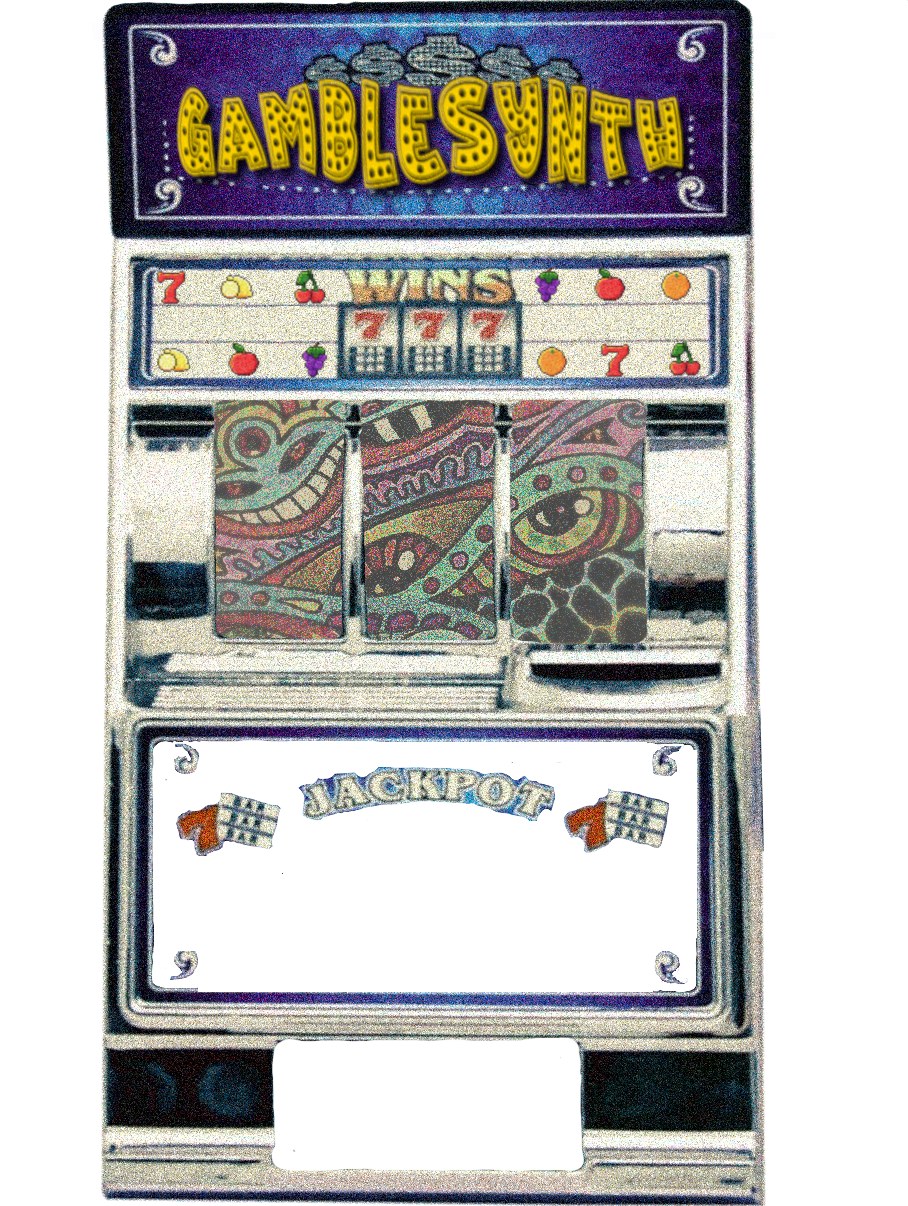
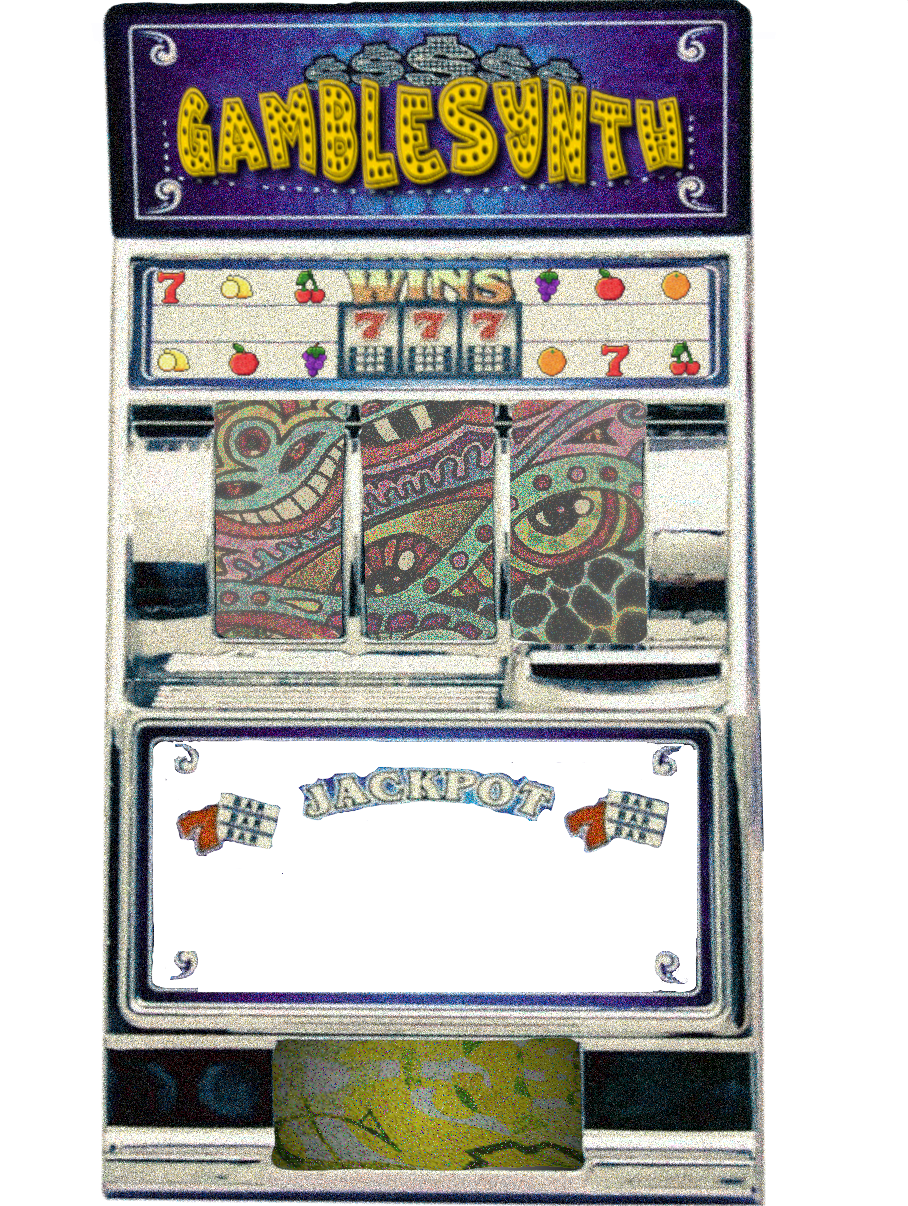
Coin tray on the new backing, and a nudge you can hear
New cabinet artwork: the tray is a gold plate rather than a hole, so the
controls now sit on something. Same canvas size, so every measured coordinate
still holds.

The tray holds NUDGE and the balance on one line with SHOP SOON beneath, at the
same button height as the SAVE/LOAD/CHAOS row so the text matches the rest of
the machine. The balance reads as a number and a gold G, drawn as one centred
line so the pair stays put whatever the count is.

Nudge was too polite to notice: a press moved the filter 0.139 octaves on
average, which is a change you have to go looking for. Every spread roughly
doubled and the default amount went from half to full, so a press now averages
0.602 octaves and six presses average 1.09. Still bounded - the check that a
nudge stays within about an octave and a half holds, and every discrete choice
is still untouched, so it remains the same sound rather than a new roll.

Changed region(s): [[0.2775, 0.859, 0.6476, 0.9818]]

diff --git a/src/Randomizer.h b/src/Randomizer.h
@@ -53,7 +53,7 @@ public:
     // changing any of them would be a new roll rather than a variation.
     //
     // Amount is 0..1; at 1 the drift is obvious but the sound is still related.
-    void nudge (Patch& p, float amount = 0.5f)
+    void nudge (Patch& p, float amount = 1.0f)
     {
         const float a = juce::jlimit (0.0f, 1.0f, amount);
 
@@ -69,49 +69,49 @@ public:
             return juce::jlimit (lo, hi, v + f (-spread, spread) * a);
         };
 
-        p.cutoff    = juce::jlimit (30.0f, 18000.0f, scale (p.cutoff, 0.5f));
-        p.resonance = shift (p.resonance, 0.12f, 0.0f, 0.95f);
-        p.filterEnvAmt = shift (p.filterEnvAmt, 0.15f, -1.0f, 1.0f);
+        p.cutoff    = juce::jlimit (30.0f, 18000.0f, scale (p.cutoff, 1.1f));
+        p.resonance = shift (p.resonance, 0.22f, 0.0f, 0.95f);
+        p.filterEnvAmt = shift (p.filterEnvAmt, 0.3f, -1.0f, 1.0f);
         p.keytrack  = shift (p.keytrack, 0.1f, 0.0f, 1.0f);
 
-        p.ampA = juce::jlimit (0.001f, 4.0f, scale (p.ampA, 0.45f));
-        p.ampD = juce::jlimit (0.005f, 6.0f, scale (p.ampD, 0.45f));
-        p.ampS = shift (p.ampS, 0.12f, 0.0f, 1.0f);
-        p.ampR = juce::jlimit (0.01f, 8.0f, scale (p.ampR, 0.45f));
+        p.ampA = juce::jlimit (0.001f, 4.0f, scale (p.ampA, 0.9f));
+        p.ampD = juce::jlimit (0.005f, 6.0f, scale (p.ampD, 0.9f));
+        p.ampS = shift (p.ampS, 0.2f, 0.0f, 1.0f);
+        p.ampR = juce::jlimit (0.01f, 8.0f, scale (p.ampR, 0.9f));
 
-        p.modA = juce::jlimit (0.001f, 4.0f, scale (p.modA, 0.45f));
-        p.modD = juce::jlimit (0.005f, 6.0f, scale (p.modD, 0.45f));
-        p.modS = shift (p.modS, 0.12f, 0.0f, 1.0f);
-        p.modR = juce::jlimit (0.01f, 8.0f, scale (p.modR, 0.45f));
+        p.modA = juce::jlimit (0.001f, 4.0f, scale (p.modA, 0.9f));
+        p.modD = juce::jlimit (0.005f, 6.0f, scale (p.modD, 0.9f));
+        p.modS = shift (p.modS, 0.2f, 0.0f, 1.0f);
+        p.modR = juce::jlimit (0.01f, 8.0f, scale (p.modR, 0.9f));
 
         for (auto& o : p.osc)
         {
-            o.level = shift (o.level, 0.12f, 0.0f, 1.0f);
-            o.fine  = shift (o.fine, 6.0f, -50.0f, 50.0f);
+            o.level = shift (o.level, 0.22f, 0.0f, 1.0f);
+            o.fine  = shift (o.fine, 14.0f, -50.0f, 50.0f);
             o.decay = juce::jlimit (0.0f, 4.0f, o.decay * std::exp2 (f (-0.4f, 0.4f) * a));
         }
 
-        p.unisonDetune = juce::jlimit (0.0f, 50.0f, scale (p.unisonDetune, 0.4f));
+        p.unisonDetune = juce::jlimit (0.0f, 50.0f, scale (p.unisonDetune, 0.8f));
         p.stereoWidth  = shift (p.stereoWidth, 0.15f, 0.0f, 1.0f);
-        p.fmAmount     = juce::jlimit (0.0f, 1.0f, scale (p.fmAmount, 0.35f));
+        p.fmAmount     = juce::jlimit (0.0f, 1.0f, scale (p.fmAmount, 0.7f));
         p.subLevel     = shift (p.subLevel, 0.1f, 0.0f, 1.0f);
         p.noiseLevel   = shift (p.noiseLevel, 0.08f, 0.0f, 1.0f);
-        p.wtPos        = shift (p.wtPos, 0.18f, 0.0f, 1.0f);
+        p.wtPos        = shift (p.wtPos, 0.35f, 0.0f, 1.0f);
 
         // Modulators: rate and depth drift, shape and destination do not.
         for (int k = 0; k < Patch::NumMods; ++k)
         {
             auto& m = p.mod[k];
             if (m.dest == ModNone) continue;
-            m.rate  = juce::jlimit (0.01f, 20.0f, scale (m.rate, 0.5f));
-            m.depth = shift (m.depth, 0.15f, 0.0f, 1.0f);
+            m.rate  = juce::jlimit (0.01f, 20.0f, scale (m.rate, 1.0f));
+            m.depth = shift (m.depth, 0.3f, 0.0f, 1.0f);
         }
-        p.envAmount = shift (p.envAmount, 0.15f, -1.0f, 1.0f);
+        p.envAmount = shift (p.envAmount, 0.3f, -1.0f, 1.0f);
 
         // Effects move least. A nudge that swings the reverb from dry to
         // cathedral does not read as the same sound.
-        p.drive     = shift (p.drive, 0.12f, 0.0f, 1.0f);
-        p.foldAmount= shift (p.foldAmount, 0.1f, 0.0f, 1.0f);
+        p.drive     = shift (p.drive, 0.2f, 0.0f, 1.0f);
+        p.foldAmount= shift (p.foldAmount, 0.18f, 0.0f, 1.0f);
         p.chorusMix = shift (p.chorusMix, 0.08f, 0.0f, 1.0f);
         p.phaserMix = shift (p.phaserMix, 0.08f, 0.0f, 1.0f);
         p.flangerMix= shift (p.flangerMix, 0.08f, 0.0f, 1.0f);

diff --git a/src/PluginEditor.h b/src/PluginEditor.h
@@ -52,6 +52,53 @@ private:
     GambleSynthProcessor& proc;
 };
 
+// The nudge balance: a number and a gold G, drawn together so the G stays the
+// accent colour while the count matches every other readout on the cabinet.
+struct CreditsDisplay : juce::Component
+{
+    int credits = 0;
+
+    void set (int c)
+    {
+        if (c == credits) return;
+        credits = c;
+        repaint();
+    }
+
+    void paint (juce::Graphics& g) override
+    {
+        const auto font = Theme::mono (juce::jlimit (10.0f, 26.0f, getHeight() * 0.42f), true);
+        const juce::String number (credits);
+
+        // Lay the number and the G out as one line, then split the space so the
+        // pair stays centred whatever the count is.
+        const int gapW = juce::roundToInt (font.getHeight() * 0.35f);
+        const int numW = juce::GlyphArrangement::getStringWidthInt (font, number);
+        const int gW   = juce::GlyphArrangement::getStringWidthInt (font, "G");
+        const int total = numW + gapW + gW;
+
+        auto r = getLocalBounds();
+        auto line = r.withWidth (total).withCentre (r.getCentre());
+
+        Theme::drawOutlined (g, number, line.removeFromLeft (numW),
+                             juce::Justification::centred, font);
+        line.removeFromLeft (gapW);
+
+        juce::GlyphArrangement ga;
+        ga.addFittedText (font, "G", (float) line.getX(), (float) line.getY(),
+                          (float) line.getWidth(), (float) line.getHeight(),
+                          juce::Justification::centred, 1);
+        juce::Path path;
+        ga.createPath (path);
+        g.setColour (juce::Colours::black);
+        g.strokePath (path, juce::PathStrokeType (juce::jmax (2.5f, font.getHeight() * 0.22f),
+                                                  juce::PathStrokeType::curved,
+                                                  juce::PathStrokeType::rounded));
+        g.setColour (Theme::gold());
+        g.fillPath (path);
+    }
+};
+
 // Catches clicks anywhere outside the library panel and closes it. Sits behind
 // the panel and covers the whole editor, which is the only reliable way to get
 // click-outside on a child component — the alternative is watching global mouse
@@ -150,6 +197,8 @@ private:
     juce::TextButton goButton    { "GO" };
     juce::Label      seedLabel;
     juce::TextButton nudgeButton;
+    juce::TextButton shopButton;
+    CreditsDisplay   creditsDisplay;
     juce::TextEditor seedEditor;
     FlatKeyboard keyboard;
 

diff --git a/src/PluginEditor.cpp b/src/PluginEditor.cpp
@@ -39,6 +39,12 @@ GambleSynthEditor::GambleSynthEditor (GambleSynthProcessor& p)
         refresh();
     };
 
+    addAndMakeVisible (creditsDisplay);
+
+    shopButton.setButtonText ("SHOP SOON");
+    shopButton.setEnabled (false);          // nothing to sell yet
+    addAndMakeVisible (shopButton);
+
     seedEditor.setInputRestrictions (6, "0123456789");
     seedEditor.setTextToShowWhenEmpty ("SEED", juce::Colours::black.withAlpha (0.45f));
     seedEditor.setJustification (juce::Justification::centred);
@@ -112,6 +118,7 @@ GambleSynthEditor::GambleSynthEditor (GambleSynthProcessor& p)
         // The seed already reads on the WINS strip; the tray gets the nudge.
         seedLabel.setVisible (false);
         nudgeButton.setLookAndFeel (&skinned);
+        shopButton.setLookAndFeel (&skinned);
     }
 
     proc.onPatchChanged = [this] { refresh(); };
@@ -267,9 +274,9 @@ void GambleSynthEditor::refresh()
 
     {
         const int credits = proc.getNudgeCredits();
-        nudgeButton.setButtonText (credits > 0 ? "NUDGE  " + juce::String (credits)
-                                               : "NUDGE  --");
+        nudgeButton.setButtonText ("NUDGE");
         nudgeButton.setEnabled (credits > 0);
+        creditsDisplay.set (credits);
 
         // Say what a win paid, so the reels visibly decide something.
         const int paid = proc.getLastPayout();
@@ -404,7 +411,9 @@ void GambleSynthEditor::layoutFromSkin (juce::Rectangle<int> art)
     const auto& L = Skin::layout();
     auto at = [art] (juce::Rectangle<float> norm) { return Skin::place (norm, art); };
 
-    nudgeButton.setBounds (at (L.seedDisplay));
+    nudgeButton.setBounds    (at (L.nudge));
+    creditsDisplay.setBounds (at (L.credits));
+    shopButton.setBounds     (at (L.shop));
     seedEditor.setBounds  (at (L.seedEntry));
     goButton.setBounds    (at (L.go));
     undoButton.setBounds  (at (L.undo));

diff --git a/src/Skin.h b/src/Skin.h
@@ -77,8 +77,11 @@ namespace Skin
         juce::Rectangle<float> go        { px (  0.0f,   0.0f,   0.0f,  0.0f) };  // folded into the box
         juce::Rectangle<float> meter     { px (525.0f, 310.0f, 182.0f, 27.0f) };
 
-        // The coin tray is the big readout, like a payout window.
-        juce::Rectangle<float> seedDisplay { px (282.0f, 1060.0f, 292.0f, 60.0f) };
+        // The coin tray holds what winnings buy. Button heights match the
+        // SAVE/LOAD/CHAOS row above so the text is the same size as the rest.
+        juce::Rectangle<float> nudge   { px (282.0f, 1046.0f, 172.0f, 52.0f) };
+        juce::Rectangle<float> credits { px (462.0f, 1046.0f, 110.0f, 52.0f) };
+        juce::Rectangle<float> shop    { px (282.0f, 1104.0f, 290.0f, 50.0f) };
 
         // The band between the reels and the window.
         juce::Rectangle<float> save  { px (152.0f, 664.0f, 170.0f, 52.0f) };

diff --git a/tools/RenderTest.cpp b/tools/RenderTest.cpp
@@ -1404,7 +1404,10 @@ std::cout << "host lifecycle: " << (allOk ? "PASS" : "FAIL") << std::endl;
                 worst = juce::jmax (worst, oct);
             }
 
-            const bool ok = worst <= 1.0;
+            // A nudge should be obvious. Within about an octave and a half of
+            // filter movement it is still the same sound; past that it is a
+            // re-roll wearing the same name.
+            const bool ok = worst <= 1.6;
             allOk = allOk && ok;
             std::cout << "stays nearby:        " << (ok ? "PASS" : "FAIL")
                       << "  worst cutoff move " << juce::String (worst, 2) << " oct" << std::endl;

diff --git a/README.md b/README.md
@@ -33,7 +33,8 @@ There's also a portable zip if you'd rather drop the `.vst3` in by hand.
   put, so it's still recognisably the patch you had. Press again to drift
   further. Turns a near-miss roll into a keeper, and pairs with HOLD.
 - **Nudges are won, not given.** Three matching fruit pay 2, three sevens pay
-  20. You start with 5. That's what the reels are for.
+  20, shown as **G** in the coin tray. You start with 5. That's what the reels
+  are for.
 - **< / >** — step back and forward through the last 64 rolls.
 - **SEED** — every sound has a 6-digit code. Type someone else's in and press
   Return to get the exact same sound. Send me the good ones.
